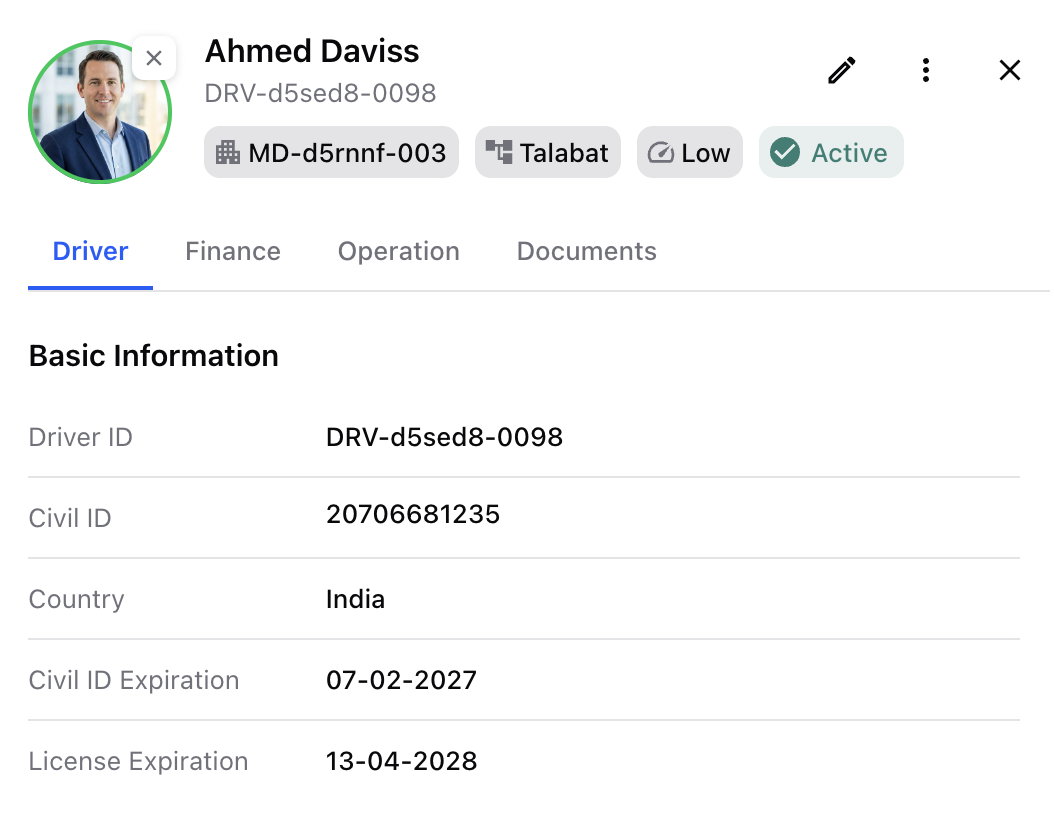
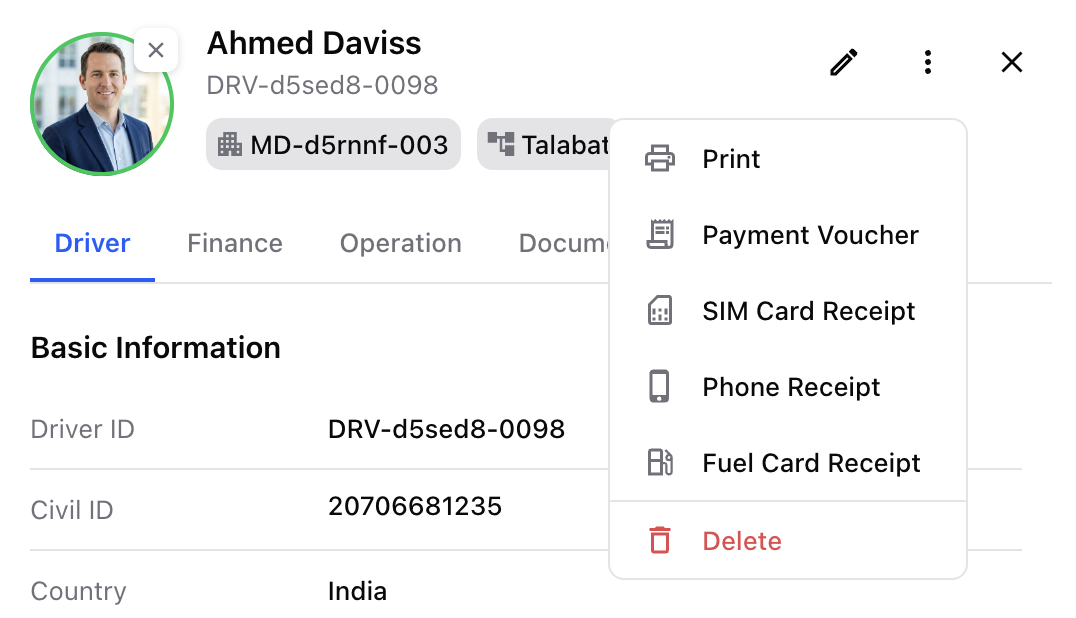
ixing driverprofile and service png size

diff --git a/src/content.js b/src/content.js
@@ -97,8 +97,11 @@ export const howItWorks = {
         'Assign vehicles to drivers, log maintenance, and print bilingual handover forms and reports on demand.',
       art: 'vehicle',
       image: '/service.png',
+      // Wider than the panel (1076×518) — shown whole so the units on the right
+      // survive the narrow mobile crop
+      imageFit: 'contain',
       imageAlt:
-        'FleetHub bilingual vehicle handover form with vehicle details and a condition inspection diagram',
+        'FleetHub vehicle service form with odometer, maintenance, and cost fields',
     },
     {
       title: 'Salaries & Expenses',
